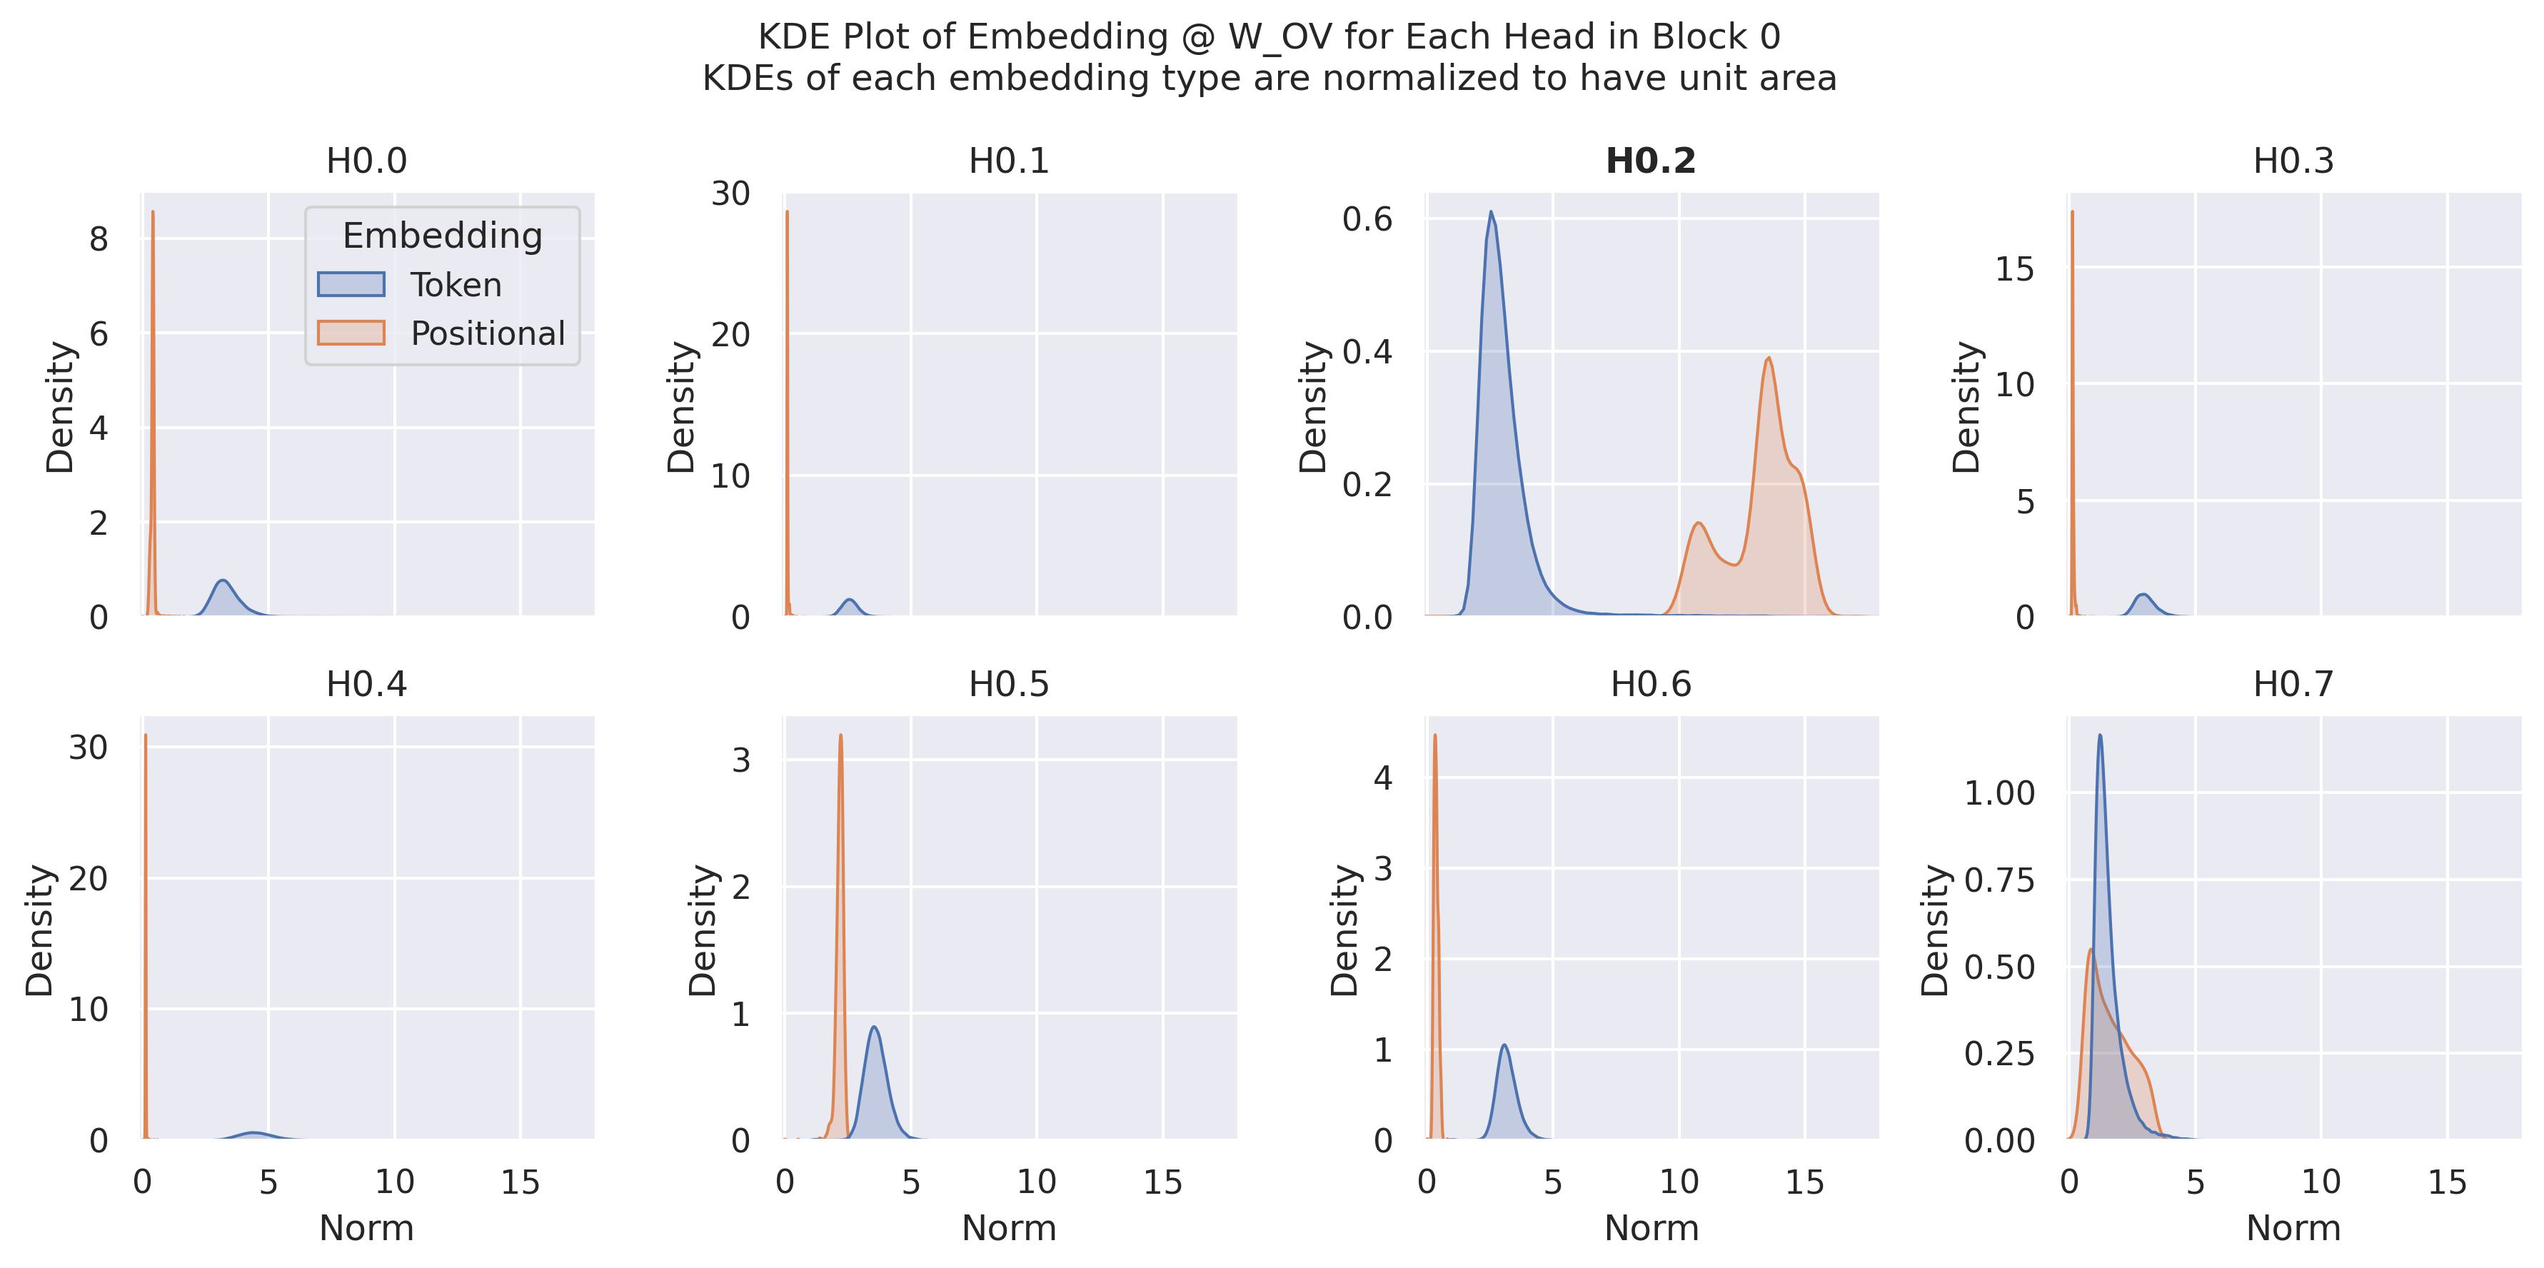
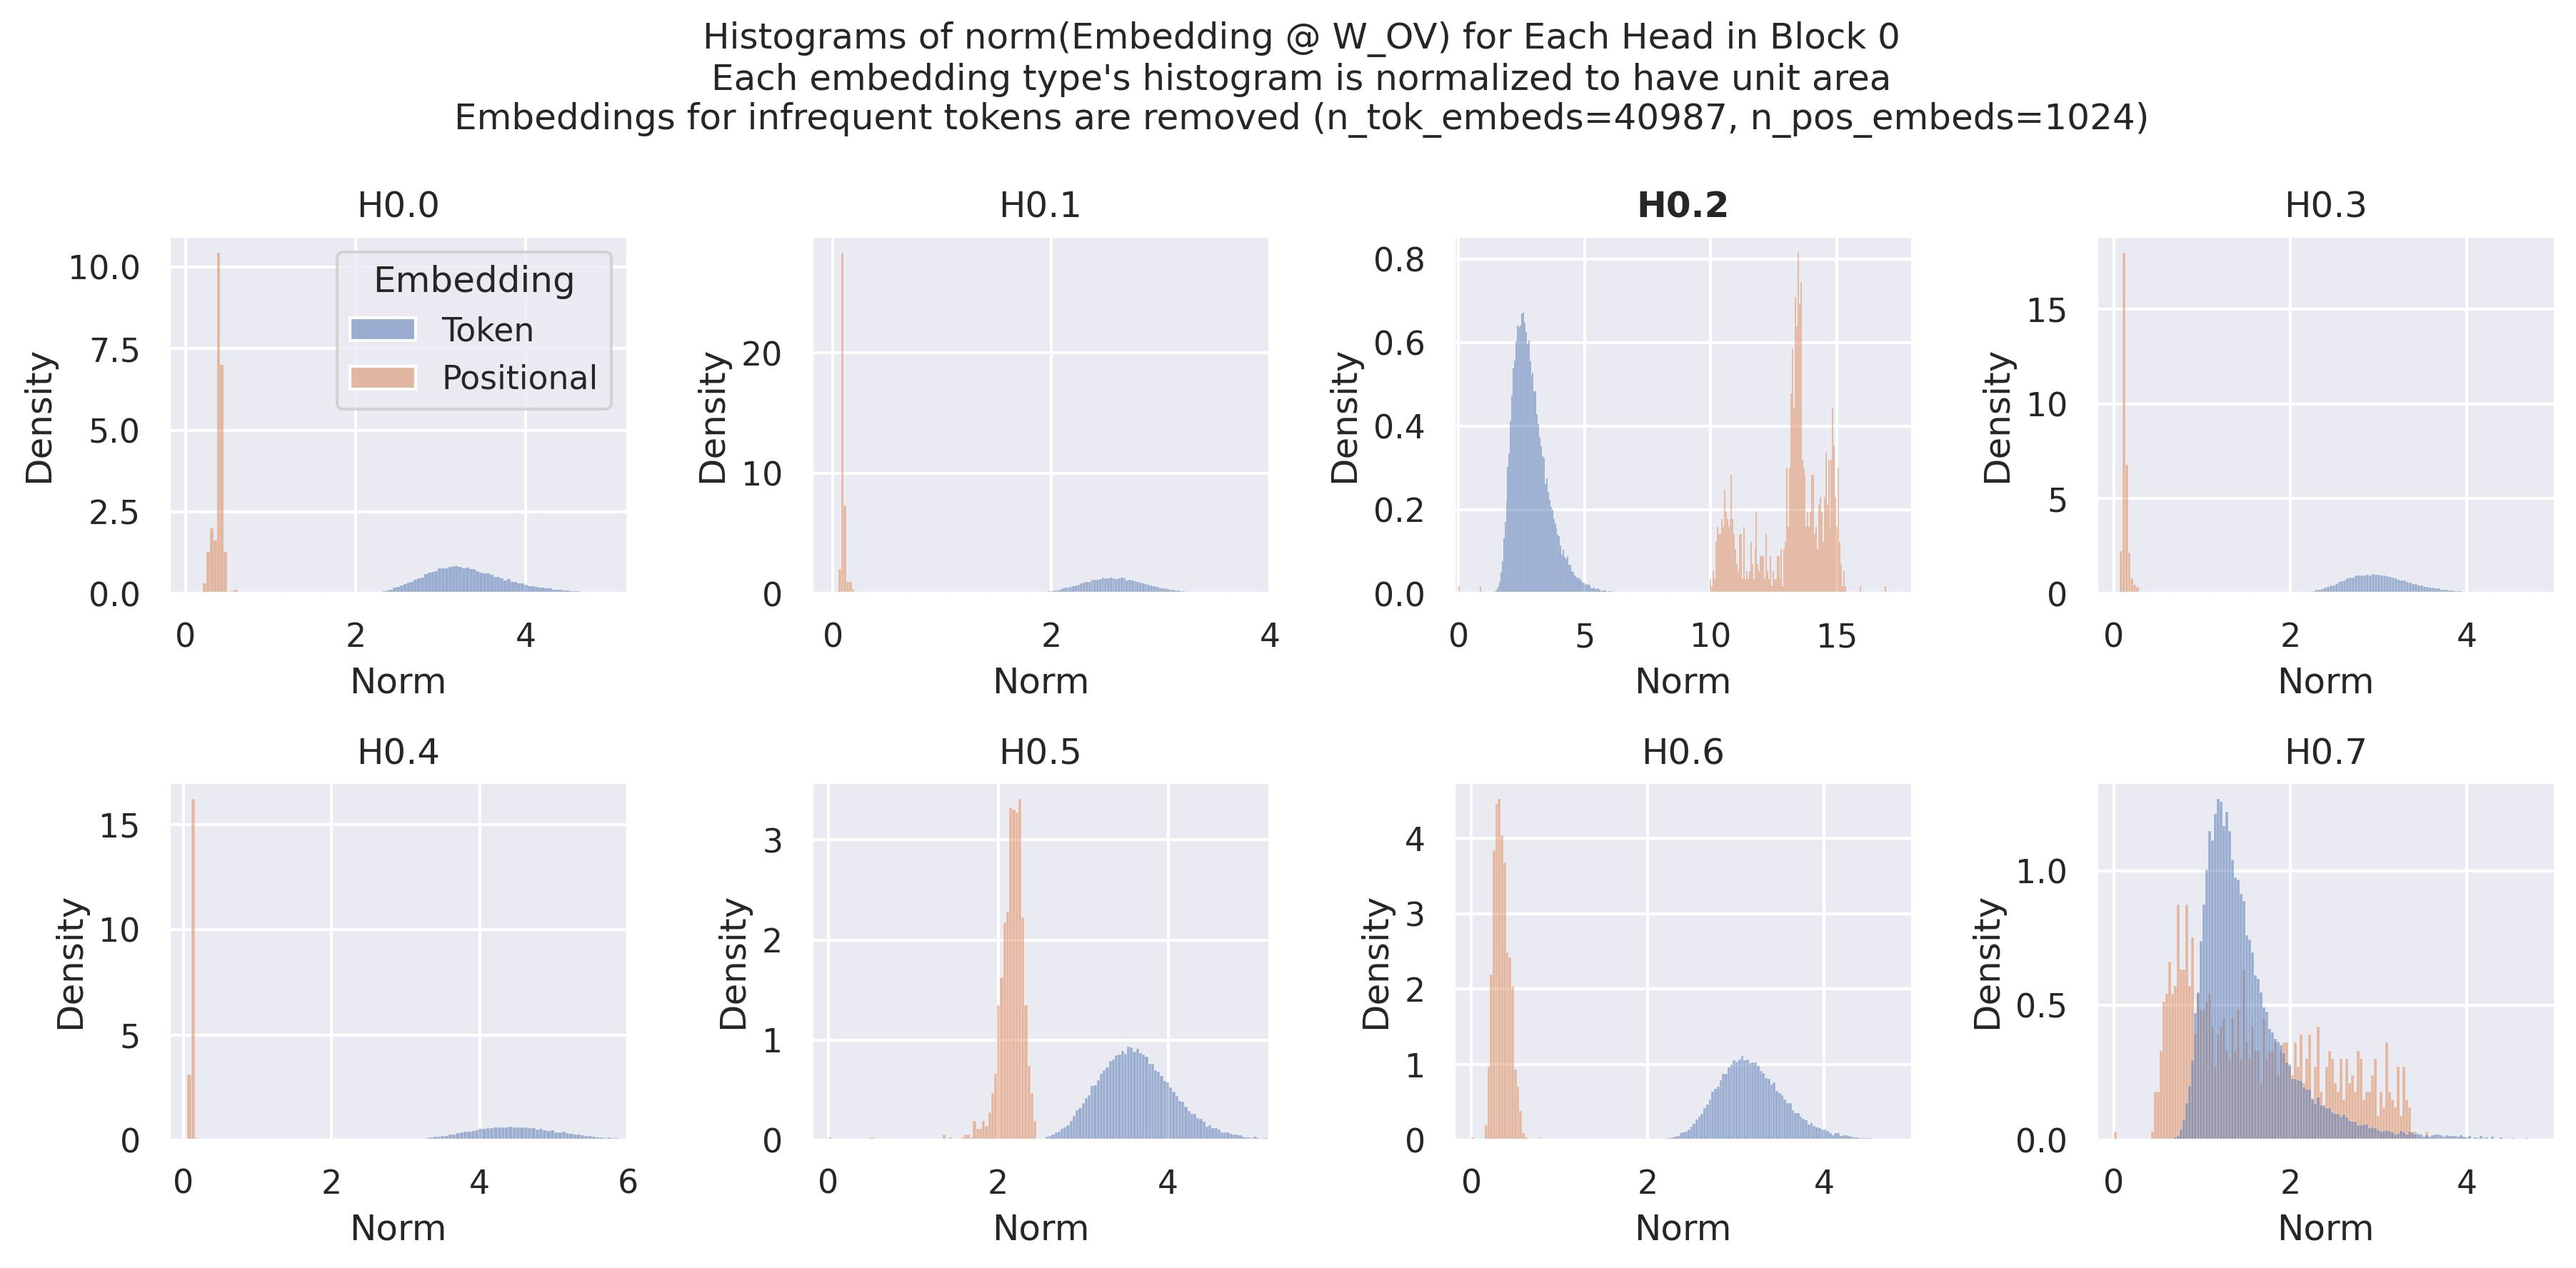
fix plots and other stuff

diff --git a/figure_recreation/fig6_OVs_of_H0_X.py b/figure_recreation/fig6_OVs_of_H0_X.py
@@ -40,10 +40,10 @@ model.cfg.use_attn_result = True
 # W_pos = model.W_pos  # (n_ctx, d_model)
 
 # Scaled embeddings
-# df_token_counts = pd.read_csv("../sanity_checks/counts_with_strings.csv")
-# token_ids_to_scale = df_token_counts.query("count >= @MIN_TOKEN_COUNT")["token_id"].tolist()
-# W_E, W_pos = scale_embeddings(model, token_ids_to_scale, device=device)
-W_E, W_pos = scale_embeddings(model, device=device)
+df_token_counts = pd.read_csv("../sanity_checks/counts_with_strings.csv")
+token_ids_to_scale = df_token_counts.query("count >= @MIN_TOKEN_COUNT")["token_id"].tolist()
+W_E, W_pos = scale_embeddings(model, token_ids_to_scale, device=device)
+W_E = W_E[token_ids_to_scale]  # Keep only scaled embeddings
 
 #%%
 W_OV = []
@@ -68,29 +68,41 @@ for head in range(model.cfg.n_heads):
     df = pd.concat([df, df_E, df_pos])
 
 #%%
-fig, ax = plt.subplots(2, 4, figsize=(12, 6), sharex=True)
+fig, ax = plt.subplots(2, 4, figsize=(12, 6))
 
-for head in range(model.cfg.n_heads):
+xlims = [
+    (-0.2, 5.2),
+    (-0.2, 4),
+    (-0.2, 18),
+    (-0.2, 5),
+    (-0.2, 6),
+    (-0.2, 5.2),
+    (-0.2, 5),
+    (-0.2, 5),
+]
+
+for xlim, head in zip(xlims, range(model.cfg.n_heads)):
     row, col = divmod(head, 4)
 
-    sns.kdeplot(
+    sns.histplot(
         data=df.query(f"head == {head}"),
         x="norm",
         hue="Embedding",
         common_norm=False,
-        fill=True,
+        stat="density",
         ax=ax[row, col],
     )
     title_kwargs = dict(fontweight='bold') if head == 2 else {}
     ax[row, col].set_title(f"H{BLOCK}.{head}", **title_kwargs)
-    ax[row, col].set_xlim([-0.2, 18.0])
+    ax[row, col].set_xlim(xlim)
     ax[row, col].set_xlabel("Norm")
     if not (row == 0 and col == 0):
         ax[row, col].get_legend().remove()
 
 fig.suptitle(
-    f"KDE Plot of Embedding @ W_OV for Each Head in Block 0\n"
-    f"KDEs of each embedding type are normalized to have unit area"
+    f"Histograms of norm(Embedding @ W_OV) for Each Head in Block 0\n"
+    f"Each embedding type's histogram is normalized to have unit area\n"
+    f"Embeddings for infrequent tokens are removed (n_tok_embeds={W_E.shape[0]}, n_pos_embeds={W_pos.shape[0]})"
 )
 fig.tight_layout()
 

diff --git a/figure_recreation/fig4_H2_X_lineplots.py b/figure_recreation/fig4_H2_X_lineplots.py
@@ -24,8 +24,8 @@ sns.set()
 torch.set_grad_enabled(False)
 device = "cpu"
 
-N_TEXT_PROMPTS = 240
-N_CODE_PROMPTS = 60
+N_TEXT_PROMPTS = 2
+N_CODE_PROMPTS = 1
 WRITER_NAME = "H0.2"
 FIG_FILEPATH = "figs/fig4_H2_X_onto_H0_2_lineplots.jpg"
 
@@ -91,7 +91,7 @@ sns.lineplot(
 ax[0].axhline(0, ls="--", color="black", alpha=0.4)
 ax[0].set_title(
     f"Projections of H2.X onto H0.2\n"
-    f"Median across batch (n={prompts.shape[0]}) and position (n={prompts.shape[1]})\n"
+    f"Median across batch (n={prompts.shape[0]})\n"
 )
 ax[0].set_xlabel("Position")
 ax[0].set_ylabel("Projection Ratio")
@@ -109,9 +109,10 @@ sns.lineplot(
 ax[1].axhline(0, ls="--", color="black", alpha=0.4)
 ax[1].set_title(
     f"Projection of sum(H2.X) onto H0.2\n"
-    f"Median across batch (n={prompts.shape[0]}) and position (n={prompts.shape[1]})\n"
+    f"Median across batch (n={prompts.shape[0]})\n"
     f"Error bars: q25 - q75"
 )
+ax[1].set_xlabel("Projection Ratio")
 ax[1].set_ylabel("Projection Ratio")
 
 fig.tight_layout()

diff --git a/figure_recreation/figX_project_then_unembed.py b/figure_recreation/figX_project_then_unembed.py
@@ -112,6 +112,17 @@ df = ntensor_to_long(
 )
 
 #%%
+# DLA without projection
+H0_2_normed = (H0_2 - H0_2.mean(dim=-1, keepdim=True)) / scale
+dla_without_proj = einops.einsum(
+    H0_2_normed[0, :,  -1, :],  # shape: (batch, d_model)
+    model.W_U,
+    "batch d_model, d_model d_vocab -> batch d_vocab",
+)
+dla_without_proj_probs = (orig_logits - dla_without_proj).softmax(dim=-1)[..., correct_token_id].flatten().cpu().numpy()
+prob_diff_wo_proj = (orig_prob - dla_without_proj_probs)[0]
+
+#%%
 fig, ax = plt.subplots()
 ax2 = ax.twinx()
 
@@ -123,10 +134,11 @@ sns.lineplot(
 )
 sns.lineplot(
     x=df.resid.unique(),
-    y=new_probs,
+    y=orig_prob - new_probs,
     color="C1",
     ax=ax2,
 )
 ax2.set_ylabel("softmax(logits-DLA)[t]")
+ax2.axhline(prob_diff_wo_proj, color="black", linestyle="--")
 
 # import psutil; psutil.virtual_memory()

diff --git a/figure_recreation/fig3_patch_v_input_cleaners.py b/figure_recreation/fig3_patch_v_input_cleaners.py
@@ -87,7 +87,7 @@ orig_resids = torch.stack(
     dim=0,
 )  # shape: (resid, batch, pos, d_model)
 
-orig_ln_final_scale = cache["blocks.2.ln1.hook_scale"]
+orig_ln_scale = cache["blocks.2.ln1.hook_scale"]
 
 del orig_logits, cache
 gc.collect()
@@ -104,8 +104,7 @@ def hook_remove_H0_2(activations, hook):
 def hook_patch_ln_scale(scale, hook):
     if hook.name == "blocks.2.ln1.hook_scale":
         print("Did the ln_final scale hook!")
-        scale = orig_ln_final_scale
-    return scale
+        return orig_ln_scale
 
 # Add hooks and run with cache
 model.reset_hooks()
